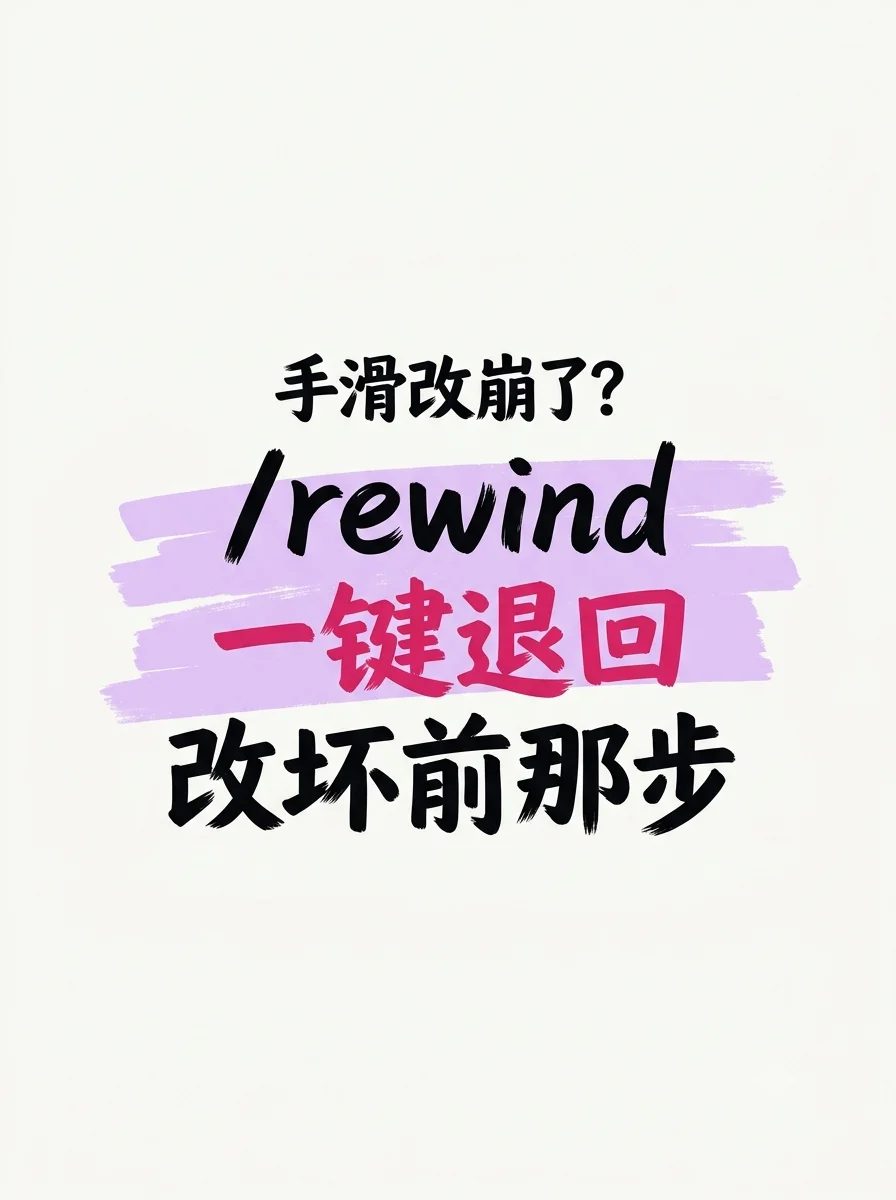
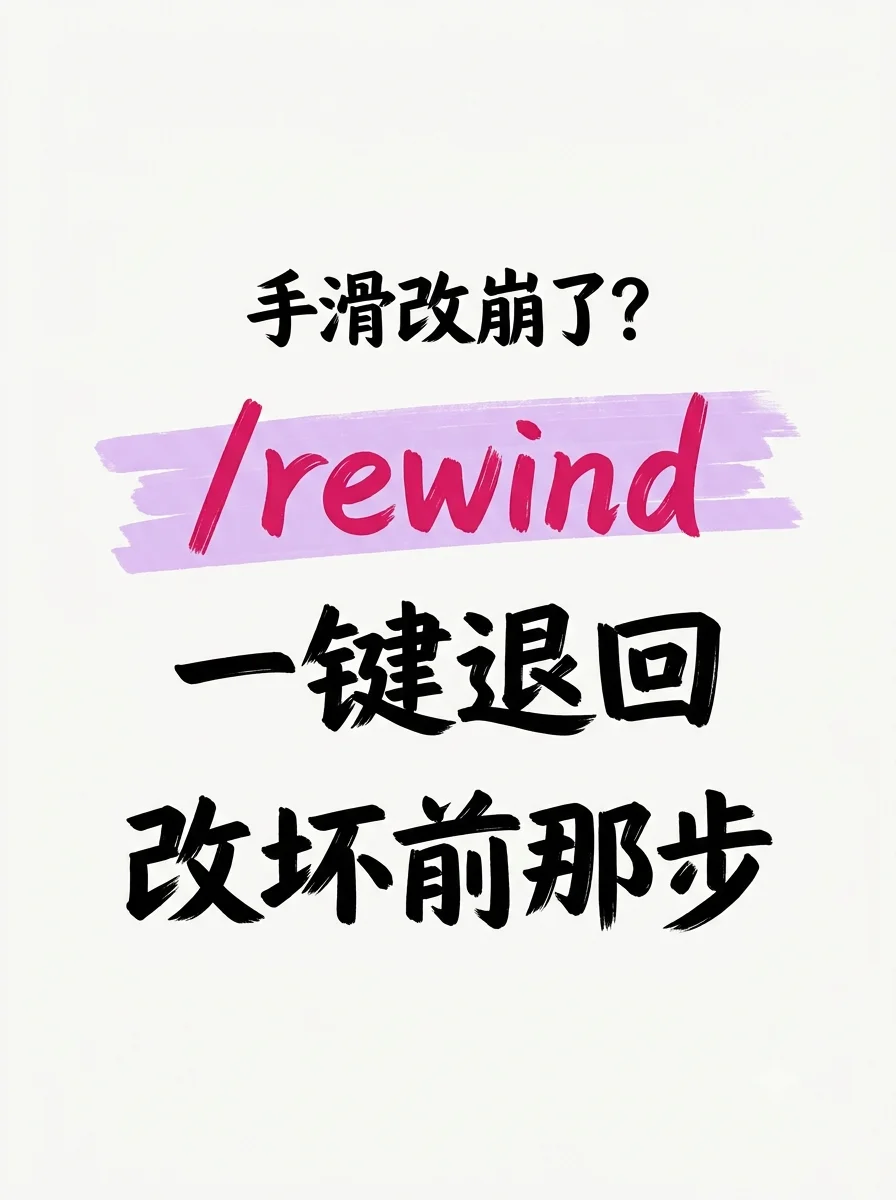
refine(image-styles): marker-* 强制三行大字拉开行距
大爆点各行之间强制留大行距(≥0.6 字高)、绝不贴成块——之前 gemini 会把
三行压成一块。prompt 硬化措辞 + 5 张预览重生成 + README 铁律同步。

Changed region(s): [[0.0938, 0.2158, 0.9062, 0.8017]]

diff --git a/assets/image-styles/README.md b/assets/image-styles/README.md
@@ -263,7 +263,7 @@ accounts:
 
 白底 + 粗刷体大字(干笔飞白)+ 一道荧光笔高亮压在关键行 + 单个关键词强调色,居中大留白。纯文字大字卡,标题党 / 爆点 / 热评气质,手作感强。**取代旧的 `tech-card-blue` / `quote-card-minimal` 两款极简大字卡**,作为卡片类推荐默认(`tech` 账号 `image_style` 默认已切到 `marker-lime`)。
 
-**共享 DNA / 四条铁律**:①字号分层——小引子 ≈ 大字的 55%,大爆点中等不夸张、2-3 行行距宽松;②文字块只占画面 ~40%、四周大留白,字小而透气、不铺满;③全卡只一道**干刷、有笔触条纹、边缘毛糙半透明**的荧光高亮,只压第一行大字;④只一个词上强调色,其余近黑 `#1a1a1a`,白底不铺色不加框。5 个变体只换「高亮色 + 强调色」这一对。
+**共享 DNA / 四条铁律**:①字号分层——小引子 ≈ 大字的 55%,大爆点中等不夸张,**三行大字之间强制留大行距(≥0.6 字高)、绝不贴成块**;②文字块只占画面 ~40%、四周大留白,字小而透气、不铺满;③全卡只一道**干刷、有笔触条纹、边缘毛糙半透明**的荧光高亮,只压第一行大字;④只一个词上强调色,其余近黑 `#1a1a1a`,白底不铺色不加框。5 个变体只换「高亮色 + 强调色」这一对。
 
 > **⚠ 字体一致**:纯文字卡最吃字体,模型渲染中文会飘、刷体难稳。要真·一致就走「白底只出高亮 + 版式,文字用固定刷体后期叠」(中文汉仪雅酷黑 / 站酷庆科黄油体,英文 Permanent Marker / Caveat)。一步到位出字时,卡面控制在 ≤14 字、短句分行,出错率更低。
 
